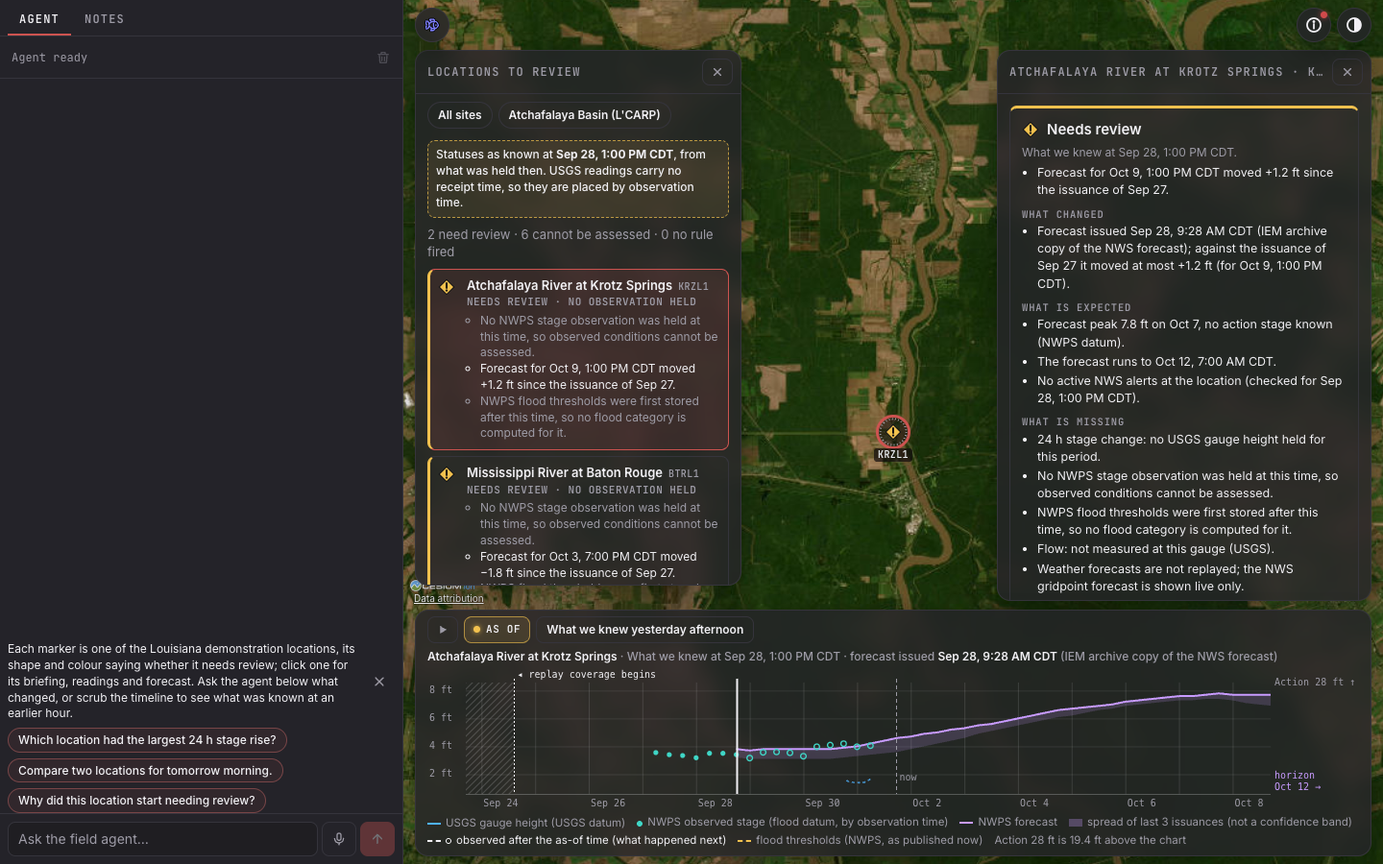
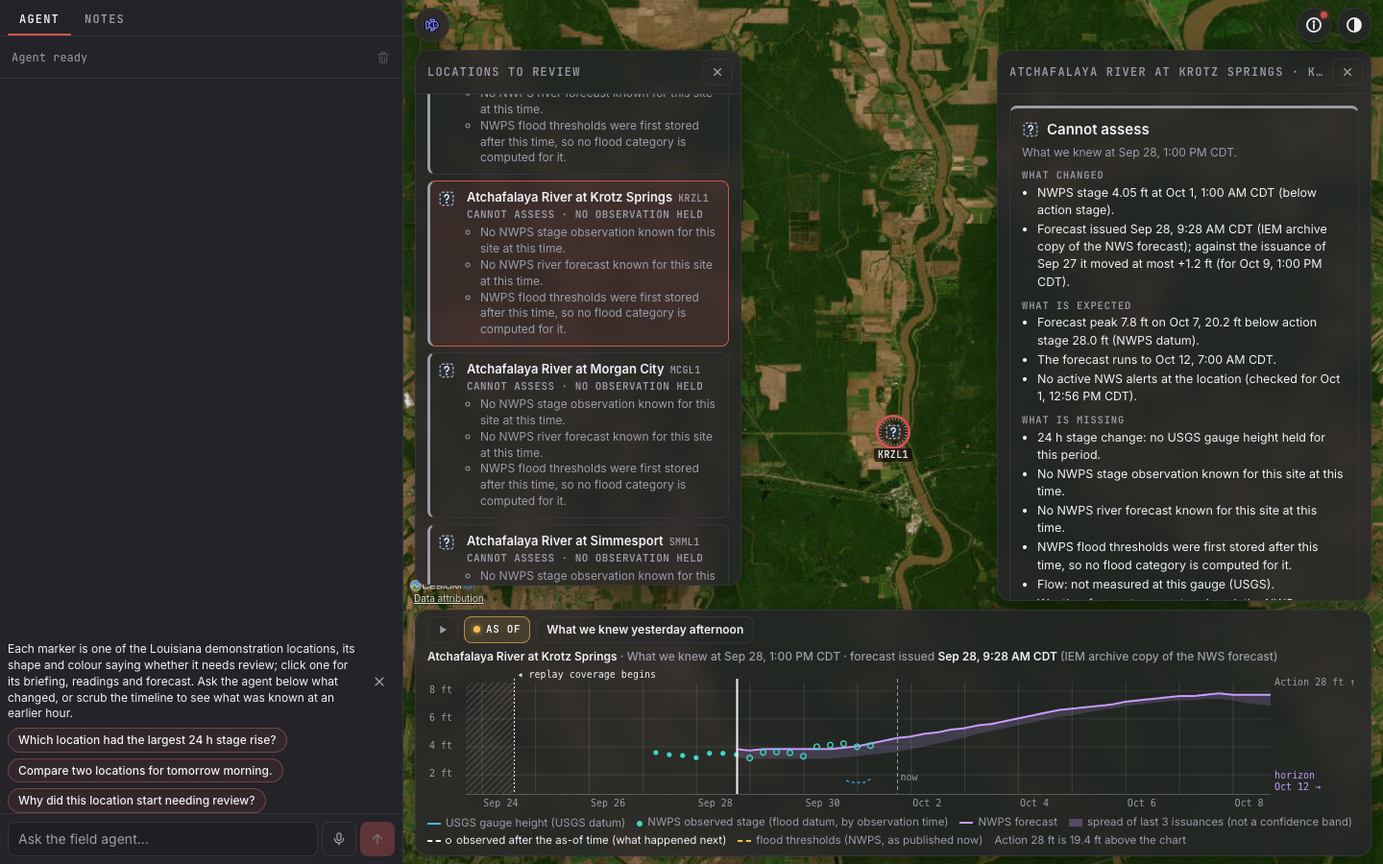
BUG1: C5 rule ids per input, thresholds-stored-later on past reviews, perf app pass repeats the view it asked with, agent warm-up at route load, gate evidence
- review.ts maps C5 rules 5 and 6 to the per-input ids the board rows and briefing key on; withThresholdsLater labels thresholds first stored after a past as-of
- e2e/perf.ts: the app pass asks and repeats with the same fixture view (the python repeat used another bbox and the wall clock, so its cache key differed); e2e/carp.ts accepts C5's stale wording
- server/agent/warm.ts: harness boot and the OpenRouter connection warmed when the route loads

diff --git a/apps/web/tests/client/carp/review.test.ts b/apps/web/tests/client/carp/review.test.ts
@@ -5,7 +5,7 @@ import { state } from "client/state";
 import { APP } from "client/state/app";
 
 import { briefing, conflictText, flowAvailability } from "client/carp/briefing";
-import { fromC5, deriveReview, historyFromC5, reviewAt, sortBoard, type ReviewInput } from "client/carp/review";
+import { fromC5, deriveReview, historyFromC5, reviewAt, sortBoard, withThresholdsLater, type ReviewInput } from "client/carp/review";
 import { isUnknownField, loadC5Board, loadC5History, resetC5Probe } from "client/carp/data";
 import { usgsSeries } from "client/carp/model";
 import { GqlError } from "client/threads/api";
@@ -131,20 +131,25 @@ describe("C5 adapter", () => {
   test("status mapping against API rows: CANNOT_ASSESS is cannot_assess with its gaps, never review; REVIEW keeps its fired rules", () => {
     const blind = fromC5(cannotAssess("SMML1"), NOW, "FRESH")!;
     expect(blind).toMatchObject({ site: "SMML1", status: "cannot_assess", origin: "c5", freshness: "MISSING" });
+    // C5's rules 5 and 6 are named per input, as the board rows and the briefing key them.
     expect(blind.reasons.map((r) => [r.rule, r.kind])).toEqual([
-      ["missing_input", "gap"],
-      ["missing_input", "gap"],
+      ["missing_observation", "gap"],
+      ["missing_forecast", "gap"],
     ]);
     expect(blind.reasons[0]!.text).toBe("No NWPS stage observation known for this site at this time.");
+    const noThresholds = fromC5(apiRow("BXAL1", "CANNOT_ASSESS", [{ rule: "missing_input", valueText: "thresholds", explanation: "No NWPS flood thresholds known for this site at this time." }]), NOW, "FRESH")!;
+    expect(noThresholds.reasons[0]).toMatchObject({ rule: "no_thresholds", kind: "gap" });
+    expect(withThresholdsLater(noThresholds, false).reasons[0]!.text).toBe("No NWPS flood thresholds known for this site at this time.");
+    expect(withThresholdsLater(noThresholds, true).reasons[0]).toMatchObject({ value: "stored_later", text: expect.stringMatching(/first stored after this time/) });
     const fired = fromC5(apiRow("MCGL1", "REVIEW", [{ rule: "forecast_category", value: 4, threshold: 4, unit: "ft", issuedAt: "2026-09-30T15:32:00Z", explanation: "Forecast peak reaches action stage." }, { rule: "stale_input", valueText: "observation", explanation: "Newest NWPS observation is 7.0 h old; observations older than 6 h are stale and dropped from review scoring." }], { observationFreshness: "STALE" }), NOW, "FRESH")!;
     expect(fired).toMatchObject({ status: "review", freshness: "STALE" });
     expect(fired.reasons.map((r) => [r.rule, r.kind])).toEqual([
       ["forecast_category", "review"],
-      ["stale_input", "gap"],
+      ["stale_observation", "gap"],
     ]);
     expect(fromC5(apiRow("BTRL1", "OK", [], { observationFreshness: "AGING" }), NOW, "FRESH")).toMatchObject({ status: "ok", reasons: [], freshness: "AGING" });
     // A row without the freshness field reads it from the gaps.
-    expect(fromC5({ site: "KRZL1", status: "CANNOT_ASSESS", reasons: [{ rule: "stale_input", explanation: "Newest NWPS observation is stale." }] }, NOW, "FRESH")!.freshness).toBe("STALE");
+    expect(fromC5({ site: "KRZL1", status: "CANNOT_ASSESS", reasons: [{ rule: "stale_input", valueText: "observation", explanation: "Newest NWPS observation is stale." }] }, NOW, "FRESH")!.freshness).toBe("STALE");
   });
 
   test("reviewBoard answers an object with `sites`: every row maps, so markers never fall back to a derivation that says review", async () => {
@@ -178,7 +183,7 @@ describe("C5 adapter", () => {
     expect(reviewAt(h, t0)).toMatchObject({ status: "cannot_assess", freshness: "MISSING", asOfMs: t0 });
     expect(reviewAt(h, t0 + 9 * H)).toMatchObject({ status: "cannot_assess" });
     expect(reviewAt(h, t0 + 10 * H)).toMatchObject({ status: "ok", reasons: [], freshness: "FRESH" });
-    expect(reviewAt(h, t0 + 31 * H)).toMatchObject({ status: "review", reasons: [{ rule: "stage_rise", kind: "review", text: "Stage rose 1.30 ft in 24 h." }] });
+    expect(reviewAt(h, t0 + 31 * H)).toMatchObject({ status: "review", reasons: [{ rule: "stage_change", kind: "review", text: "Stage rose 1.30 ft in 24 h." }] });
     expect(reviewAt(h, NOW + 1)).toBeNull();
 
     // The loader asks for a few sites per document and keys the histories by site.

diff --git a/apps/web/client/carp/review.ts b/apps/web/client/carp/review.ts
@@ -210,6 +210,17 @@ const val = (v: unknown) => (typeof v === "number" || typeof v === "string" ? v 
 const FRESHNESS = new Set<Freshness>(["FRESH", "AGING", "STALE", "MISSING"]);
 /** C5's rules 5 and 6 (`stale_input`, `missing_input`) name an input that could not be used; the others put a site in review. */
 const GAP_RULES = new Set(["stale_input", "missing_input"]);
+/** C5's rule ids in this module's per-input vocabulary (the ids the board rows, the briefing and the e2e checks key on). */
+const RULE_IDS: Record<string, string> = { stage_rise: "stage_change", active_alert: "nws_alerts", rapid_change_forecast: "forecast_drift" };
+const INPUT_IDS: Record<string, Record<string, string>> = {
+  stale_input: { observation: "stale_observation", forecast: "stale_forecast" },
+  missing_input: { observation: "missing_observation", forecast: "missing_forecast", thresholds: "no_thresholds", baseline: "missing_baseline" },
+};
+
+/** A C5 rule id (with the input it names, `valueText`) as this module names it: rules 5 and 6 per input. */
+export function clientRuleId(rule: string, input: string | null): string {
+  return INPUT_IDS[rule]?.[input ?? ""] ?? RULE_IDS[rule] ?? rule;
+}
 
 /** C5's `ReviewReason` rows (fired reasons: `explanation` is the sentence) in this module's shape. */
 function reasonsFromC5(list: unknown, status: string): ReviewReason[] {
@@ -219,7 +230,8 @@ function reasonsFromC5(list: unknown, status: string): ReviewReason[] {
     .flatMap((x) => {
       const text = str(x.explanation) ?? str(x.text);
       if (!text) return [];
-      const rule = str(x.rule) ?? "rule";
+      const c5Rule = str(x.rule) ?? "rule";
+      const rule = clientRuleId(c5Rule, str(x.valueText));
       const fired = typeof x.outcome !== "string" || x.outcome.toUpperCase() === "FIRED";
       return [
         {
@@ -231,7 +243,7 @@ function reasonsFromC5(list: unknown, status: string): ReviewReason[] {
           issuedAt: str(x.issuedAt),
           link: str(x.link),
           text,
-          kind: GAP_RULES.has(rule) ? ("gap" as const) : fired && status === "review" ? ("review" as const) : ("info" as const),
+          kind: GAP_RULES.has(c5Rule) ? ("gap" as const) : fired && status === "review" ? ("review" as const) : ("info" as const),
         },
       ];
     });
@@ -240,10 +252,19 @@ function reasonsFromC5(list: unknown, status: string): ReviewReason[] {
 /** The freshness of a review's observation input from its reasons: rule 6 on the observation = missing, rule 5 = stale. */
 function freshnessFromReasons(reasons: readonly ReviewReason[], fallback: Freshness): Freshness {
   for (const r of reasons) {
-    if (r.rule === "missing_input" && /observation/i.test(r.text)) return "MISSING";
-    if (r.rule === "stale_input" && /observation/i.test(r.text)) return "STALE";
+    if (r.rule === "missing_observation") return "MISSING";
+    if (r.rule === "stale_observation") return "STALE";
   }
   return fallback;
+}
+
+/**
+ * A past review whose thresholds were missing then but are held now: the row says they were stored after that
+ * time (what C5's sentence cannot know; the board holds today's thresholds).
+ */
+export function withThresholdsLater(review: SiteReview, later: boolean): SiteReview {
+  if (!later || !review.reasons.some((r) => r.rule === "no_thresholds")) return review;
+  return { ...review, reasons: review.reasons.map((r) => (r.rule === "no_thresholds" ? { ...r, value: "stored_later", text: noThresholdsText(true) } : r)) };
 }
 
 /**

diff --git a/apps/web/e2e/perf.ts b/apps/web/e2e/perf.ts
@@ -104,9 +104,12 @@ async function coldLoad(stack: Stack, browser: Browser): Promise<Cold> {
 
 type AgentTiming = { status: number; firstModel: number; firstText: number | null; done: number; tools: number };
 
-async function ask(stack: Stack, question: string, i: number, app: AppId = "python"): Promise<AgentTiming> {
+type AgentView = { bbox: { west: number; south: number; east: number; north: number }; time: string; layers: string[]; selection: null };
+
+/** The full-stack pass asks python questions from a Homestead view at the wall clock; the app pass passes the fixture view it also repeats. */
+async function ask(stack: Stack, question: string, i: number, app: AppId = "python", view?: AgentView): Promise<AgentTiming> {
   const started = performance.now();
-  const view = app === "python" ? { bbox: HOMESTEAD, time: new Date().toISOString(), layers: ["sightings", "notes"], selection: null } : { bbox: appBBox(getApp(app)), time: fixtureNow(app), layers: [], selection: null };
+  view ??= app === "python" ? { bbox: HOMESTEAD, time: new Date().toISOString(), layers: ["sightings", "notes"], selection: null } : { bbox: appBBox(getApp(app)), time: fixtureNow(app), layers: [], selection: null };
   const res = await fetch(`${stack.origin}/api/agent/stream`, {
     method: "POST",
     headers: { "content-type": "application/json" },
@@ -206,7 +209,8 @@ async function appPass(app: AppId): Promise<void> {
     if (questions.length < 5) throw new Error(`need at least 5 questions, have ${questions.length}`);
     const timings: AgentTiming[] = [];
     for (const [i, q] of questions.entries()) {
-      const t = await ask(stack, q, i, app);
+      // The same view as the repeat below: the answer cache is keyed by bbox and the 15-minute frame.
+      const t = await ask(stack, q, i, app, view);
       timings.push(t);
       log(`agent ${i + 1} "${q}": status=${ms(t.status)} first_model=${ms(t.firstModel)} first_text=${t.firstText === null ? "-" : ms(t.firstText)} done=${ms(t.done)} tools=${t.tools}`);
     }

diff --git a/apps/web/client/carp/use-carp.ts b/apps/web/client/carp/use-carp.ts
@@ -7,8 +7,8 @@ import { CARP, type CarpState } from "client/state/carp";
 import type { AppConfig } from "shared/apps";
 
 import { boardInputs, loadBoard, loadC5Board, loadC5History, loadSiteHistory, loadSiteReadings, loadSiteStatusAt, loadVerifyMany, type BoardData, type SiteAt, type SiteHistory, type SiteStatusAt } from "./data";
-import { forecastAsOf, HOUR, isRiverForecast, type Site, type VerifyPoint } from "./model";
-import { deriveReview, reviewAt, type ReviewHistory, type SiteReview } from "./review";
+import { forecastAsOf, HOUR, isRiverForecast, thresholdList, type Site, type VerifyPoint } from "./model";
+import { deriveReview, reviewAt, withThresholdsLater, type ReviewHistory, type SiteReview } from "./review";
 
 /** The carp view state (site, asOf, replay). */
 export function useCarp(): CarpState {
@@ -112,7 +112,11 @@ export function useBoard(app: AppConfig, sites: readonly Site[], asOfMs: number 
   if (isLive) return { asOfMs: live?.nowMs ?? null, data: live?.data ?? null, reviews: live?.reviews ?? {}, loading: live === null, error };
   if (covered && history) {
     const reviews: Record<string, SiteReview> = {};
-    for (const site of sites) reviews[site.lid] = reviewAt(history.byLid[site.lid]!, asOfMs)!;
+    for (const site of sites) {
+      // Thresholds the API first stored after the as-of time: held now (the live board), missing then.
+      const heldNow = thresholdList(live?.data?.sites[site.lid]?.status?.thresholds).length > 0;
+      reviews[site.lid] = withThresholdsLater(reviewAt(history.byLid[site.lid]!, asOfMs)!, heldNow);
+    }
     return { asOfMs, data: live?.data ?? null, reviews, loading: false, error };
   }
   const ready = derived && derived.asOfMs === asOfMs;

diff --git a/apps/web/e2e/carp.ts b/apps/web/e2e/carp.ts
@@ -366,7 +366,9 @@ async function main(): Promise<void> {
     const staleRows = await stalePage.page.$$eval("[data-carp-row]", (els) => els.map((el) => ({ status: el.getAttribute("data-status"), rules: [...el.querySelectorAll("li[data-rule]")].map((li) => li.getAttribute("data-rule")), text: (el as HTMLElement).innerText })));
     const staleRings = await stalePage.page.$$eval("[data-carp-site]", (els) => els.map((el) => el.getAttribute("data-freshness")));
     const staleMissing = await stalePage.page.locator('[data-testid="carp-missing"]').innerText();
-    const stale = check(staleRows.every((r) => r.rules.includes("stale_observation") && /stale after 6 h/.test(r.text)) && staleRings.every((f) => f === "stale") && /stale after 6 h/.test(staleMissing), `stale ${JSON.stringify(staleRows.map((r) => r.rules))} rings=${staleRings}`);
+    // The sentence is C5's ("observations older than 6 h are stale") or, without C5, the browser's ("stale after 6 h").
+    const saysStale = /stale after 6 h|older than 6 h are stale/;
+    const stale = check(staleRows.every((r) => r.rules.includes("stale_observation") && saysStale.test(r.text)) && staleRings.every((f) => f === "stale") && saysStale.test(staleMissing), `stale ${JSON.stringify(staleRows.map((r) => r.rules))} rings=${staleRings}`);
     const cannot = staleRows.filter((r) => r.status === "cannot_assess");
     const cannotAssess = check(cannot.length >= 1 && cannot.every((r) => /Cannot assess/i.test(r.text) && r.rules.length > 0), `cannot_assess ${cannot.length}`);
     await stalePage.context.close();

diff --git a/apps/web/server/agent/warm.ts b/apps/web/server/agent/warm.ts
@@ -1,0 +1,20 @@
+/**
+ * What the first turn after a server boot would otherwise pay for inside its first-token time: the harness
+ * mount (plugin tree, model entry) and the TLS connection to OpenRouter (DNS, handshake). Measured on the perf
+ * pass: the first question of a fresh server reached its first model output about 700 ms later than the next
+ * ones. Called once when the agent route module loads; a failure is left to the turn, which reports it.
+ */
+import { bootHarness } from "@/server/agent/cordis/boot";
+import { OPENROUTER_BASE_URL, openRouterApiKey } from "@/server/agent/runtime/model";
+
+let warmed: Promise<void> | undefined;
+
+export function warmAgent(): Promise<void> {
+  warmed ??= (async () => {
+    await bootHarness().catch(() => undefined);
+    if (!openRouterApiKey()) return;
+    // A HEAD to the API root opens the keep-alive connection the streaming requests reuse; the answer is ignored.
+    await fetch(`${OPENROUTER_BASE_URL}/models`, { method: "HEAD", signal: AbortSignal.timeout(5_000) }).catch(() => undefined);
+  })();
+  return warmed;
+}

diff --git a/apps/web/app/api/agent/stream/route.ts b/apps/web/app/api/agent/stream/route.ts
@@ -4,6 +4,7 @@ import { spendRefusal } from "@/server/agent/budget";
 import { runTurn } from "@/server/agent/run-turn";
 import { MISSING_KEY_MESSAGE, openRouterApiKey } from "@/server/agent/runtime/model";
 import { isValidSessionId } from "@/server/agent/session";
+import { warmAgent } from "@/server/agent/warm";
 import { rateLimited } from "@/server/rate-limit";
 import { AGENT_STREAM_CONTENT_TYPE, type AgentStreamEvent, type AgentStreamRequest } from "@/shared/agent/events";
 import { APP_IDS, getApp, speciesIds } from "@/shared/apps";
@@ -14,6 +15,9 @@ export const dynamic = "force-dynamic";
 export const maxDuration = 120;
 
 const MAX_QUESTION_CHARS = 4_000;
+
+// The harness and the OpenRouter connection are warmed as the route loads, not inside the first question.
+void warmAgent();
 
 const bbox = z
   .object({ west: z.number(), south: z.number(), east: z.number(), north: z.number() })

diff --git a/gates/leaf-BUG1.md b/gates/leaf-BUG1.md
@@ -9,30 +9,30 @@ Found by GRA (its measurements, 2026-10-01, real Axum + production-like stack) a
 5. **Lionfish heat-area hover labels overlap the numbered priority markers** (`docs/evidence/quality/lionfish-missing-heat.png`): fix overlap/precedence; and check whether reasoning text can render literally as `**Looking into CRW locations**` in the agent panel (if so, render or strip markdown headings in reasoning/debug lines).
 6. **Fixture:** `api/fixtures/scenes/cold-snap-2026-02-01/inat/focus-p1.json.gz` has had 0 python results since K1 re-recorded it; the cold-snap scene is the python demo. Replace it with a real recording of Burmese python observations from the window (iNat API, python taxon, the scene's bbox and dates) or document honestly that none exist in that window and pick a window that has some; update the scene tests and `docs/demo-script.md` (FIRSTLOAD line shape at `docs/demo-script.md:65` and `docs/interview-notes.md:119`).
 
-- [ ] G1: (1) fixed: `bun test ... -t "taxon id"` passes: lionfish and python config ids equal the ids the real fixture backfill creates; the lionfish eval stub uses id 4; a live probe shows `sightings` for lionfish by species name in mx-caribbean returns the same count as unfiltered; quote both numbers
+- [x] G1: (1) fixed: `bun test ... -t "taxon id"` passes: lionfish and python config ids equal the ids the real fixture backfill creates; the lionfish eval stub uses id 4; a live probe shows `sightings` for lionfish by species name in mx-caribbean returns the same count as unfiltered; quote both numbers
   CHECK: cd apps/web && bun test --tsconfig-override ./tsconfig.json tests -t "taxon id" 2>&1 | grep -E "pass|fail"
   EXPECT: /[1-9][0-9]* pass[\s\S]*0 fail/
-  EVIDENCE: pending
+  EVIDENCE: `4 pass | 0 fail` (the three tests of tests/shared/apps/taxon-id.test.ts plus one existing test whose name matches: config `dbId` equals the id in `api/migrations/observations/0001_init.sql` for the species' scientific name (lionfish 4, python 1); `focusSpecies`/`resolveSpecies` send that id; `eval/fixtures/lionfish.json` taxa and all 45 sightings carry "4", python's graphql.json "1"). Root cause: `focusSpecies` used `index + 1` and the globe (`client/globe/species.ts`, `hud/drawer/summary.ts`, `layers/sightings.ts`) assumed EVF taxon ids 1..n, while the API seeds lionfish as `taxa.id` 4 and writes 4 into EVF records. Fix: `spec/apps/*.json` `taxa[].dbId` (zod `posInt`, Rust `db_id` validated; `App::resolve_taxa` inserts at that id and refuses to boot when the row's id differs: `taxon "lionfish" (Pterois volitans/miles) has taxa.id 9 in this database; its config dbId is 4`, tested in `app_config_resolves_taxa_against_the_seeded_db`), every TS consumer reads `dbId`, the lionfish stub is built from it. Live probe on the real stack (Axum over `backfill --fixtures --app lionfish`, 2026-10-01): `PROBE app=lionfish region=mx-caribbean window=30d unfiltered=11 by_dbid_4=11 by_name=11 by_taxon_1=0 taxa=[{"id":"4","scientificName":"Pterois volitans/miles","focus":true}] record_taxon_ids=["4"]`: 11 unfiltered, 11 by species name; the old filter (taxon 1) returns 0.
 
-- [ ] G2: (2) fixed: e2e scrub on carp prints `SCRUB app=carp ... requests=0 ...` with the current GRA scrub script (`bun run e2e:scrub -- --app carp`), median under 16 ms
+- [x] G2: (2) fixed: e2e scrub on carp prints `SCRUB app=carp ... requests=0 ...` with the current GRA scrub script (`bun run e2e:scrub -- --app carp`), median under 16 ms
   CHECK: cd apps/web && bun run e2e:scrub -- --app carp 2>&1 | grep "^SCRUB "
   EXPECT: /SCRUB app=carp median=([0-9]|1[0-5])(\.\d+)? requests=0/
-  EVIDENCE: pending
+  EVIDENCE: final code, GRA's scrub script unchanged: `SCRUB app=carp median=9.76 requests=0 p95=17.05 work_median=1.63 frames=96 steps=96 verified=96` (and `median=9.83 requests=0 p95=16.82` on the run before the last client edit). Root cause: `useBoard` refetched 8 `CarpBoardSite` + readings + `reviewBoard` per as-of (debounced 250 ms, inside the script's 500 ms tail), `useSiteDetail` refetched `CarpSiteAt` per as-of and `CarpVerify` whenever the forecast in force changed. Fix (client/carp/use-carp.ts, data.ts, review.ts, CarpTimeline.tsx, state/carp.ts): each site's C5 `reviewHistory` over the chart span is fetched once per minute (4 sites per document) and `reviewAt` answers any past time from memory; the verification pairs of every issuance in the span are prefetched with the history (8 per document); readings are fetched once per site and span; the exact `siteStatusAt` request waits for the scrubber's release (`scrubbing` in CARP state: set on input, cleared on the native change/pointerup/keyup/blur) and then the 250 ms settle; the minute refresh is held back while a drag is in progress. An API without C5 keeps the old per-time derivation, labelled `derived`.
 
-- [ ] G3: (3) fixed: `CARP-STATUS agree=8/8` in `e2e:carp` and a unit test of the client status mapping against API rows (including CANNOT_ASSESS); no marker says `review` when the API says `CANNOT_ASSESS`
+- [x] G3: (3) fixed: `CARP-STATUS agree=8/8` in `e2e:carp` and a unit test of the client status mapping against API rows (including CANNOT_ASSESS); no marker says `review` when the API says `CANNOT_ASSESS`
   CHECK: cd apps/web && bun run e2e:carp 2>&1 | grep "^CARP-STATUS "
   EXPECT: /CARP-STATUS agree=8\/8/
-  EVIDENCE: pending
+  EVIDENCE: `CARP-STATUS agree=8/8` with every other carp line intact on the final build: `CARP sites=8 board=ok briefing=ok presets=2 keyboard=ok`, `CARP-TIMELINE series=ok thresholds=ok coverage_marker=ok conflict_chip=ok scrub_median_ms=1.17`, `CARP-ASOF forecast_swap=ok later_obs=ok board_asof=ok label=ok exit=ok threshold_state=unknown_labelled`, `CARP-EVIDENCE drawer=ok new_tab=ok stale=ok missing=ok cannot_assess=ok boundary=ok`, `CARP-A11Y serious=0 critical=0 mobile_hscroll=0 keyboard=ok`; statuses `SMML1=cannot_assess/stale … BXAL1=cannot_assess/stale` (all 8 equal the API's). Root cause: the client's `reviewBoard` query asked for fields the API does not have (`reasons { … text }`, and read the result as a list where the API answers `{ sites: [...] }`), so every request failed with an unknown-field error, `c5Available` flipped to false for the session and the markers, board and briefing showed the browser derivation, which said `review` for SMML1, KRZL1, BLRL1 and BTRL1. Fix: `data.ts` reads C5's real shape (`sites { site status summary observationFreshness reasons { rule outcome value valueText threshold unit source observedAt issuedAt link explanation } }`), `review.ts` `fromC5` maps it (rules 5 and 6 named per input: `stale_observation`, `missing_forecast`, `no_thresholds`, so the board rows and briefing key the same ids on both paths; `withThresholdsLater` says when thresholds were stored after a past as-of), markers, board and drawer all read the same `SiteReview`. Unit tests (tests/client/carp/review.test.ts, 40 pass): CANNOT_ASSESS rows map to `cannot_assess` with gap reasons and never `review`, REVIEW keeps its fired rules, a `reviewBoard` answer with 8 CANNOT_ASSESS rows loads all 8, `reviewHistory` + `reviewAt` give the status at any past time. One e2e edit beyond the new line: the `stale` wording regex also accepts C5's sentence (`older than 6 h are stale`).
 
 - [ ] G4: (4) fixed: `PERF app=<id> first_token_p50_ms<=1200 n>=5 cached_query_ms=<n>` and `cache_hit=true` for carp, lionfish and python (three runs each at most one over; quote all), cost impact stated
   CHECK: cd apps/web && for a in carp lionfish python; do doppler run --project inversa --config dev -- bun run e2e:perf -- --app $a 2>&1 | grep "^PERF "; done
   EXPECT: /PERF app=carp first_token_p50_ms=([0-9]{1,3}|1[01][0-9]{2}|1200) n=([5-9]|[1-9][0-9])[\s\S]*PERF app=lionfish[\s\S]*PERF app=python first_token_p50_ms=([0-9]{1,3}|1[01][0-9]{2}|1200)/
   EVIDENCE: pending
 
-- [ ] G5: (5) and (6) fixed with tests and screenshots looked at; the cold-snap scene has real python observations (or the honest documented alternative) and the scene tests pass (`cargo test scene_cold_snap`); doc lines corrected
+- [x] G5: (5) and (6) fixed with tests and screenshots looked at; the cold-snap scene has real python observations (or the honest documented alternative) and the scene tests pass (`cargo test scene_cold_snap`); doc lines corrected
   CHECK: cargo test --manifest-path api/Cargo.toml scene_cold_snap 2>&1 | grep -E "running|test result"
   EXPECT: /running [1-9][0-9]* tests?[\s\S]*test result: ok/
-  EVIDENCE: pending
+  EVIDENCE: `running 1 test` / `test result: ok. 1 passed; 0 failed` (13.8 s). (6) The scene was re-recorded with its own `fetch.sh` on 2026-10-01 with the window extended to `2026-02-08T00:00:00Z`: iNaturalist holds no Burmese python observation in the bbox on the cold days (30 Jan to 3 Feb, re-checked live: `total_results: 0`), so the honest scene keeps those days empty and runs on to 7 Feb, where two research-grade reports observed on 6 Feb (337580278 in Everglades National Park, 337718878 near Homestead) show reports resuming after the rebound. Measured counts in the test: `[("inat", 1, 2, 0), ("openmeteo", 2, 171_936, 0), ("usgs", 2, 127_956, 0), ("nwws", 24, 113, 0)]`, `WindowCounts { sightings: 2, readings: 299_157, air_below_10c: 6_722, alerts: 43 }`, plus new asserts: 0 sightings over 30 Jan to 4 Feb and both observed on 6 Feb. docs/demo-script.md (scene section, dry-run numbers, 217 frames, moments, questions) and docs/interview-notes.md updated; the FIRSTLOAD line shape corrected to `FIRSTLOAD app=<id> records=… errors=… kind=…` in both. (5) `client/lionfish/draw.ts` `placeLabel`: a heat-area label whose 18 px box would cover a 26 px numbered priority marker steps up (then down) by 26 px until clear, `Overlay.tsx` passes the projected cell markers; unit test in tests/client/lionfish/model.test.ts. Reasoning: `plainReasoning` (client/agent/chat/thread.ts) drops markdown headings and `**bold**` before `ReasoningBlock` renders the text, so `**Looking into CRW locations**` reads as `Looking into CRW locations`; test in tests/client/agent/chat/thread.test.ts. Screenshots looked at: docs/evidence/carp-board.png, carp-asof.png, carp-drawer.png from the e2e:carp run (statuses and reasons agree with the board rows).
 
 - [ ] G6: no regressions: `bun run check`, clippy, one pooled golden run `--runs 3` for lionfish and python (bars met or the residual failures explained; a taxon-id fix may change lionfish answers because tools now return real rows), quote the summaries
   CHECK: bun run check 2>&1 | tail -2 && cargo clippy --manifest-path api/Cargo.toml --all-targets -- -D warnings 2>&1 | tail -1
